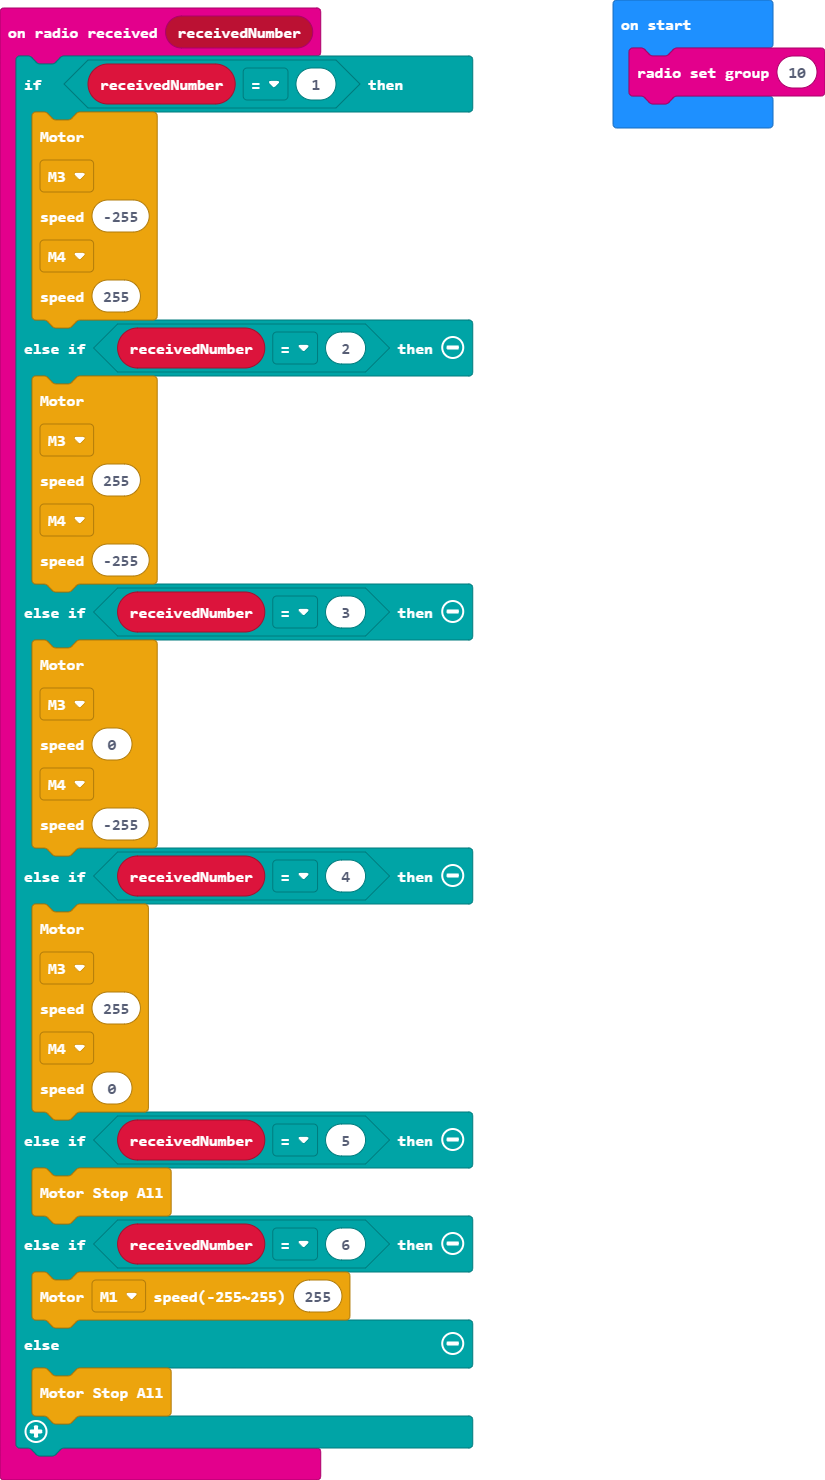
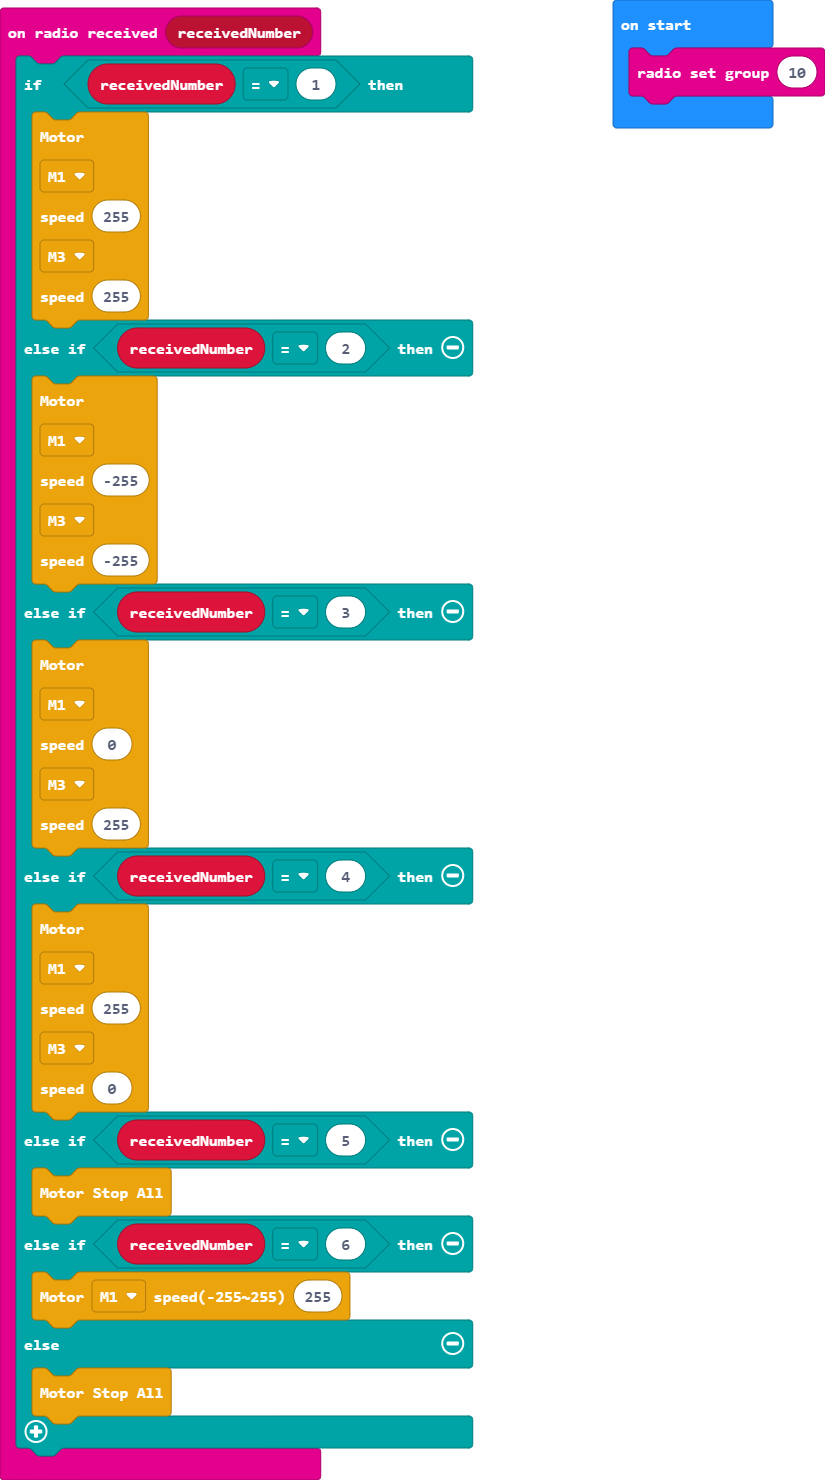
Update main.blocks, main.ts

Changed region(s): [[0.1515, 0.4351, 0.2121, 0.5905], [0.1515, 0.0622, 0.2121, 0.2176], [0.1515, 0.3108, 0.1818, 0.3419]]

diff --git a/main.ts b/main.ts
@@ -1,30 +1,30 @@
 radio.onReceivedNumber(function (receivedNumber) {
     if (receivedNumber == 1) {
         SuperBit.MotorRunDual(
+        SuperBit.enMotors.M1,
+        255,
         SuperBit.enMotors.M3,
-        -255,
-        SuperBit.enMotors.M4,
         255
         )
     } else if (receivedNumber == 2) {
         SuperBit.MotorRunDual(
+        SuperBit.enMotors.M1,
+        -255,
         SuperBit.enMotors.M3,
-        255,
-        SuperBit.enMotors.M4,
         -255
         )
     } else if (receivedNumber == 3) {
         SuperBit.MotorRunDual(
-        SuperBit.enMotors.M3,
+        SuperBit.enMotors.M1,
         0,
-        SuperBit.enMotors.M4,
-        -255
+        SuperBit.enMotors.M3,
+        255
         )
     } else if (receivedNumber == 4) {
         SuperBit.MotorRunDual(
-        SuperBit.enMotors.M3,
+        SuperBit.enMotors.M1,
         255,
-        SuperBit.enMotors.M4,
+        SuperBit.enMotors.M3,
         0
         )
     } else if (receivedNumber == 5) {
